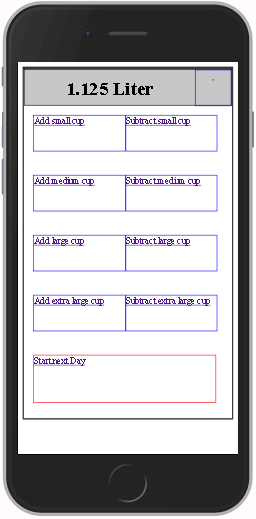
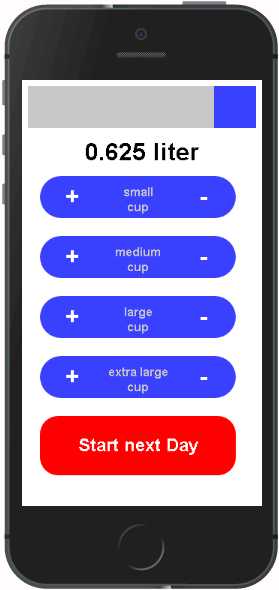
minor styling upgrades and document upgrade

diff --git a/source/index.html b/source/index.html
@@ -17,20 +17,20 @@
           <ul class="button-list">
             <li>
               <a id="addSmall" href="#" class="btn btn-intake btn-left">+</a>
-              <span class="btn btn-intake btn-middle">small cup</span>
+              <span class="btn btn-intake btn-middle">small<br/>cup</span>
               <a id="subtractSmall" href="#" class="btn btn-intake btn-right">-</a>
             </li>
             <li>
               <a id="addMedium" href="#" class="btn btn-intake btn-left">+</a>
-              <span class="btn btn-intake btn-middle">medium cup</span>
+              <span class="btn btn-intake btn-middle">medium<br/>cup</span>
               <a id="subtractMedium" href="#" class="btn btn-intake btn-right">-</a></li>
             <li>
               <a id="addLarge" href="#" class="btn btn-intake btn-left">+</a>
-              <span class="btn btn-intake btn-middle">large cup</span>
+              <span class="btn btn-intake btn-middle">large<br/>cup</span>
               <a id="subtractLarge" href="#" class="btn btn-intake btn-right">-</a></li>
             <li>
               <a id="addExtraLarge" href="#" class="btn btn-intake btn-left">+</a>
-              <span class="btn btn-intake btn-middle">extra large cup</span>
+              <span class="btn btn-intake btn-middle">extra large<br/>cup</span>
               <a id="subtractExtraLarge" href="#" class="btn btn-intake btn-right">-</a></li>
             <li><a id="submit" href="#" class="btn btn-submit">Start next Day</a></li>
           </ul>

diff --git a/source/css/style.css b/source/css/style.css
@@ -5,10 +5,10 @@ html, body{
   font-family: Arial, Helvetica, sans-serif;
 }
 
-/* HELPER*/
+/* HELPER
 div{
   border: 1px solid black;
-}
+}*/
 
 li{
   list-style: none;
@@ -51,33 +51,25 @@ a, a:link, a:hover, a:visited, a:hover  {
 .btn {
   display: block;
   float: left;
-
   font-weight: bold;
-  
-  
   width: 32%;
   height: 1.75em;
- /* border: 2px solid #656AFF;
-  border-bottom-color:#2D32C7;*/
   background-color: #3A41FF;
-  margin-bottom: 1.5em;
+  margin-bottom: .75em;
   box-sizing: border-box;
   text-align: center;
-
 }
 
 .btn-middle {
   color: #c6c6c6;
   height: 3.5em;
-  padding: 1.25em 0;
+  padding: .75em 0;
 }
 
 .btn:active {
-/*  box-shadow: inset 0 0 10px #5a5a5a;*/
 }
 
 .btn-intake{
-
 }
 
  .btn-right{
@@ -93,17 +85,18 @@ a, a:link, a:hover, a:visited, a:hover  {
  }
 
 .btn-submit{
-  height: 4em;
+  height: 3.3em;
   width: 96%;
   margin-bottom: 10px;
   border-radius: 1em; 
-  padding: 1.5em 0;
+  padding: 1em 0;
   background-color: red;
+  font-size: 1.5em;
 }
 
 .btn-settings{
   float: right;
-  height: 60px;
-  width: 60px;
+  height: 3.5em;
+  width: 3.5em;
   margin: 0;
 }

diff --git a/README.md b/README.md
@@ -1,6 +1,6 @@
 # Water drink monitor App
 ## Versionnumber 0.1.0 (2016-09-12) Alpha
-(***Documentation last update 2016-09-12 22:00***)  
+(***Documentation last update 2016-09-13 21:45***)  
 
 App that helps you monitor your water intake. (prove of concept, what prototype can be done with native javascript in 2-3 hours) 
 *(Manifest doesn't work here)*  
